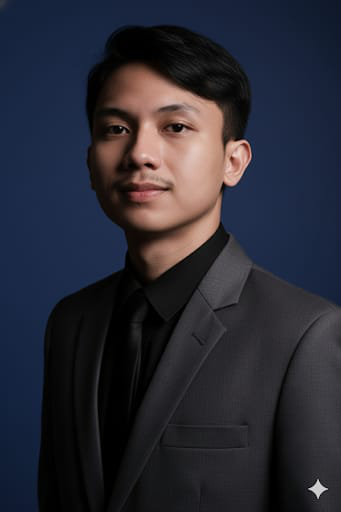
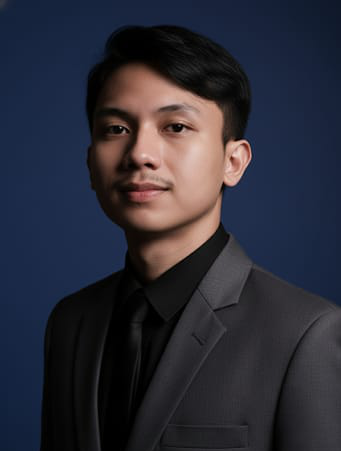
dashboard HR dan Logistik

diff --git a/app.py b/app.py
@@ -44,51 +44,122 @@ if page == "About Me":
             st.success("- SQL & Database Management")
 # 4. KONTEN HALAMAN: PROJECTS
 elif page == "Projects":
-    st.title("📁 Proyek Pilihan")
+    st.title("📁 Projects")
     st.write("Berikut adalah beberapa proyek analisis data yang telah saya selesaikan:")
     
-    tab1, tab2 = st.tabs(["E-Commerce Analysis", ""])
+    tab1, tab2, tab3 = st.tabs(["E-Commerce Analysis", "HR Attrition Analysis", "Logistics & Delivery Performance Analysis"])
     
     with tab1:
-        st.subheader("Proyek Analisis E-Commerce")
+        st.subheader("E-Commerce Analysis")
         st.image("assets/diagram.png", width=500)
         st.write("Analisis Customer Segmentation dataset publik retail online kaggle. Insight utama mencakup tren penjualan bulanan serta mengetahui segmentasi pelanggan.")
         with st.expander("Lihat Detail Proyek"):
             st.write("Proyek ini memberikan segmentasi pelanggan menggunakan metode RFM (Recency, Frequency, Monetary) untuk melakukan segmentasi pelanggan.")
             st.code("print('Hello Data Science!')", language='python')
     with tab2:
-        st.subheader("Prediksi Keuangan")
-        st.write("Membangun model regresi untuk memprediksi pendapatan kuartal berikutnya.")
-        st.warning("Sedang dalam tahap pengembangan.")
+        st.subheader("HR Attrition Analysis")
+        st.write("Analisis ini bertujuan untuk memahami faktor-faktor yang menyebabkan karyawan meninggalkan perusahaan (attrition).")
+        st.warning("")
+        try:
+            st.image("assets/hr_dashboard.png", caption="Dashboard Analisis Attrisi Karyawan", use_container_width=True)
+        except:
+            st.error("File 'hr_dashboard.png' tidak ditemukan. Pastikan file ada di folder 'assets/'.")
 
+        st.markdown("#### Key Performance Indicators (KPI)")
+        kpi1, kpi2, kpi3, kpi4 = st.columns(4)
+        kpi1.metric("Total Employee", "237")
+        kpi2.metric("Avg Salary", "4,833")
+        kpi3.metric("Avg Age", "34")
+        kpi4.metric("Attrition Rate", "16%")
+
+        with st.expander("Lihat Detail & Insight Proyek"):
+            st.write("""
+            **Deskripsi Proyek:**
+            Analisis ini bertujuan untuk memahami faktor-faktor yang menyebabkan karyawan meninggalkan perusahaan (attrition).
+            
+            **Insight Utama:**
+            * **Departemen:** Sektor **Sales** memiliki tingkat atrisi tertinggi (21%), disusul oleh HR (19%).
+            * **Pendidikan:** Karyawan dengan latar belakang pendidikan **Human Resources** memiliki atrisi paling tinggi (26%).
+            * **Business Travel:** Karyawan yang **sering bepergian** (Travel Frequently) memiliki tingkat atrisi 25%, jauh lebih tinggi dibanding yang jarang travel.
+            * **Demografi:** Kelompok usia muda (20-an tahun) menunjukkan tren atrisi yang sangat fluktuatif dan tinggi.
+            """)
+    with tab3:
+        st.subheader("Logistics & Delivery Performance Analysis")
+        try:
+            st.image("assets/logistics_dashboard.png", caption="Dashboard Performa Pengiriman Logistik", use_container_width=True)
+        except:
+            st.error("File 'logistics_dashboard.png' tidak ditemukan di folder 'assets/'.")
+        st.markdown("#### Delivery Performance Metrics")
+        m1, m2, m3, m4, m5 = st.columns(5)
+        m1.metric("Total Orders", "1,000")
+        m2.metric("Avg Distance", "906 km")
+        m3.metric("Avg Deliv Time", "57 min")
+        m4.metric("Avg Total Time", "73.71 min")
+        m5.metric("Courier Exp", "46")
+
+        with st.expander("Lihat Detail & Insight Proyek Logistik"):
+            st.write("""
+            **Analisis Performa Pengiriman:**
+            * **Weather Impact:** Cuaca 'Clear' menyumbang pesanan tertinggi (500 pesanan/50%), sedangkan cuaca buruk seperti 'Stormy' atau 'Windy' menurunkan volume pesanan secara signifikan.
+            * **Traffic Level:** Mayoritas pesanan diproses pada tingkat kemacetan 'Medium' (420) dan 'Low' (383).
+            * **Vehicle Type:** Sepeda motor (Bike) adalah armada yang paling banyak digunakan (503 pesanan), diikuti oleh Scooter (302).
+            * **Time of Day:** Aktivitas pesanan mencapai puncaknya pada waktu pagi hari (338 pesanan).
+            """)
+
+
+elif page == "Data Analysis":
+    st.title("📊 Data & Visualization")
+    st.write("Gunakan kontrol di bawah untuk berinteraksi dengan analisis HR dan Logistik.")
+
+    # --- BAGIAN 1: ANALISIS HR (DARI KODE PERTAMA ANDA) ---
+    st.header("1. HR Attrition Insights")
+    attrition_data = pd.DataFrame({
+        'Department': ['HR', 'R&D', 'Sales'],
+        'Attrition Rate (%)': [19, 14, 21]
+    })
+
+    col1, col2 = st.columns(2)
+    with col1:
+        st.write("### Ringkasan Data Attrition")
+        st.dataframe(attrition_data, use_container_width=True)
+    with col2:
+        st.write("### Perbandingan Departemen")
+        fig_hr = px.bar(attrition_data, x='Department', y='Attrition Rate (%)', color='Department')
+        st.plotly_chart(fig_hr, use_container_width=True)
+
+    st.divider() # Garis pembatas
+
+    # --- BAGIAN 2: SIMULASI PRODUK & LOGISTIK (DARI KODE KEDUA ANDA) ---
+    st.header("2. Logistics & Product Simulation")
     
-# 5. KONTEN HALAMAN: DATA ANALYSIS (Visualisasi Interaktif)
-#elif page == "Data Analysis":
-    #st.title("📊 Data & Visualization")
-    #st.write("Gunakan slider di bawah untuk berinteraksi dengan data simulasi.")
+    # Simulasi Produk
+    st.subheader("Product Sales Simulation")
+    chart_data = pd.DataFrame(
+        np.random.randn(20, 3),
+        columns=['Product A', 'Product B', 'Product C']
+    )
+    range_val = st.slider("Pilih rentang data produk:", 0, 20, (0, 10))
+    selected_data = chart_data.iloc[range_val[0]:range_val[1]]
+    st.line_chart(selected_data)
 
-    # Membuat data sampel (Simulasi)
-    #chart_data = pd.DataFrame(
-        #np.random.randn(20, 3),
-        #columns=['Product A', 'Product B', 'Product C']
-    #)
-
-    # Widget Interaktif
-    #range_val = st.slider("Pilih rentang data:", 0, 20, (0, 10))
-    #selected_data = chart_data.iloc[range_val[0]:range_val[1]]
-
-    # Tata Letak Kolom untuk Visualisasi
-    #c1, c2 = st.columns(2)
+    # Simulasi Logistik
+    st.subheader("🚚 Logistics Simulation Tool")
+    logistics_data = pd.DataFrame({
+        'Weather': ['Clear', 'Rainy', 'Foggy', 'Snowy', 'Windy'],
+        'Orders': [500, 204, 103, 97, 96]
+    })
     
-    #with c1:
-        #st.write("### Tabel Ringkasan")
-        #st.dataframe(selected_data, use_container_width=True)
+    selected_weather = st.multiselect(
+        "Filter Cuaca (Sesuai Dashboard):", 
+        logistics_data['Weather'].unique(), 
+        default=['Clear', 'Rainy']
+    )
     
-    #with c2:
-        #st.write("### Grafik Penjualan")
-        #fig = px.line(selected_data, title="Tren Produk")
-        #st.plotly_chart(fig, use_container_width=True)
-
+    filtered_logistics = logistics_data[logistics_data['Weather'].isin(selected_weather)]
+    
+    if not filtered_logistics.empty:
+        fig_log = px.bar(filtered_logistics, x='Weather', y='Orders', color='Weather', text_auto=True)
+        st.plotly_chart(fig_log, use_container_width=True)
 # 6. KONTEN HALAMAN: CONTACT
 elif page == "Contact":
     st.title("📬 Hubungi Saya")
@@ -105,3 +176,4 @@ elif page == "Contact":
     st.write("---")
     st.write("🔗 [LinkedIn](https://linkedin.com/in/habibabdulmalik)")
     st.write("💻 [GitHub](https://github.com/habibmalik031-bit)")
+    
